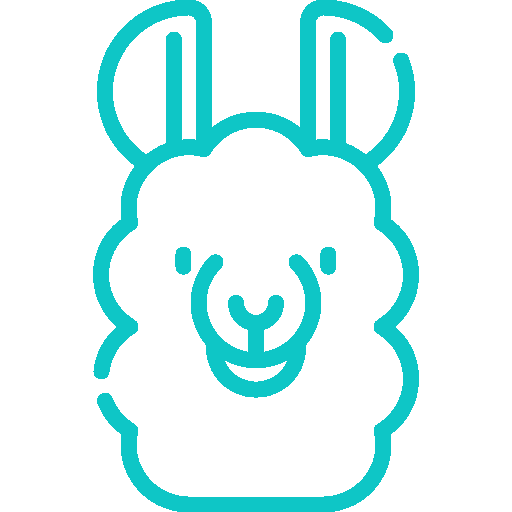
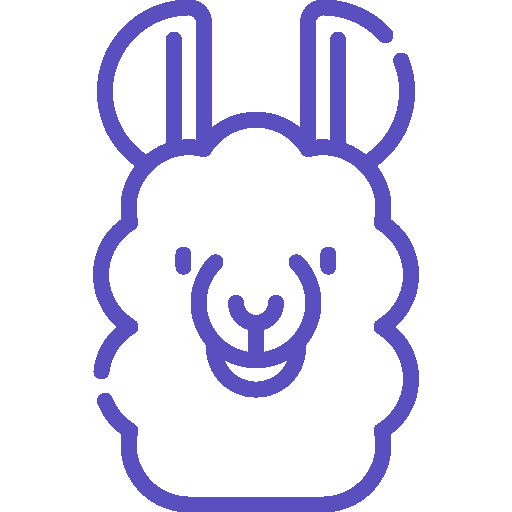
colorized

Changed region(s): [[0.1562, 0.0, 0.8438, 1.0], [0.3438, 0.4688, 0.6562, 0.7812]]

diff --git a/styles/style.css b/styles/style.css
@@ -60,8 +60,10 @@ Default CSS
 =================================================*/
 :root {
   --fontFamily: "Work Sans", sans-serif;
-  --mainColor: #0ec6c6;
-  --mainColor2: #30eded;
+  --mainColor: #594FBF;
+  --mainColorBorder: #594FBF;
+  --mainColorShadow: #ABA5EA;
+  --mainColor2: #D0CCF6;
   --optionalColor: #666666;
   --whiteColor: #ffffff;
   --blackColor: #221638;
@@ -236,8 +238,8 @@ p:last-child {
   transition: var(--transition);
   border: none;
   text-align: center;
-  border: 1px solid #96e3e3;
-  box-shadow: 4px 4px #b2eaea;
+  border: 1px solid var(--mainColorBorder);
+  box-shadow: 4px 4px var(--mainColorShadow);
   background-color: var(--whiteColor);
   color: var(--blackColor);
   font-size: var(--fontSize);
@@ -2224,7 +2226,7 @@ Main Banner Area CSS
 .main-banner-content form {
   margin-top: 40px;
   background-color: var(--whiteColor);
-  box-shadow: 5px 5px #30eded;
+  box-shadow: 5px 5px #847BDD;
   border-radius: 100px;
   padding-left: 20px;
   padding-right: 12px;
@@ -2232,7 +2234,7 @@ Main Banner Area CSS
 .main-banner-content form .form-group {
   margin: 0;
   position: relative;
-  border-right: 1px solid #30eded;
+  border-right: 1px solid #847BDD;
   margin-left: 12px;
 }
 .main-banner-content form .form-group label {
@@ -2487,7 +2489,7 @@ Main Banner Area CSS
 .banner-content form {
   margin-top: 40px;
   background-color: var(--whiteColor);
-  box-shadow: 5px 5px #30eded;
+  box-shadow: 5px 5px #847BDD;
   border-radius: 5px;
   padding-left: 20px;
   padding-right: 12px;
@@ -2495,7 +2497,7 @@ Main Banner Area CSS
 .banner-content form .form-group {
   margin: 0;
   position: relative;
-  border-right: 1px solid #30eded;
+  border-right: 1px solid #847BDD;
   margin-left: 12px;
 }
 .banner-content form .form-group label {
@@ -2719,7 +2721,7 @@ Main Banner Area CSS
 .banner-wrapper-content form {
   margin-top: 40px;
   background-color: var(--whiteColor);
-  box-shadow: 5px 5px #30eded;
+  box-shadow: 5px 5px #847BDD;
   border-radius: 5px;
   padding-left: 20px;
   padding-right: 12px;
@@ -2727,7 +2729,7 @@ Main Banner Area CSS
 .banner-wrapper-content form .form-group {
   margin: 0;
   position: relative;
-  border-right: 1px solid #30eded;
+  border-right: 1px solid #847BDD;
   margin-left: 12px;
 }
 .banner-wrapper-content form .form-group label {
@@ -3018,7 +3020,7 @@ Main Banner Area CSS
 }
 .map-home-area form {
   background-color: var(--whiteColor);
-  box-shadow: 5px 5px #30eded;
+  box-shadow: 5px 5px #847BDD;
   border-radius: 5px;
   position: absolute;
   left: 0;
@@ -3034,7 +3036,7 @@ Main Banner Area CSS
 .map-home-area form .form-group {
   margin: 0;
   position: relative;
-  border-right: 1px solid #30eded;
+  border-right: 1px solid #847BDD;
   margin-left: 12px;
 }
 .map-home-area form .form-group label {
@@ -3346,10 +3348,10 @@ Listings Area CSS
 
 .single-listings-box {
   position: relative;
-  box-shadow: 5px 5px #b2eaea;
+  box-shadow: 5px 5px var(--mainColorShadow);
   transition: var(--transition);
   background-color: var(--whiteColor);
-  border: 1px solid #96e3e3;
+  border: 1px solid var(--mainColorBorder);
   border-radius: 5px;
   margin-bottom: 35px;
   margin-right: 5px;
@@ -6039,8 +6041,8 @@ Category Area CSS
 =================================================*/
 .single-category-box {
   margin-bottom: 35px;
-  box-shadow: 5px 5px #b2eaea;
-  border: 1px solid #96e3e3;
+  box-shadow: 5px 5px var(--mainColorShadow);
+  border: 1px solid var(--mainColorBorder);
   border-radius: 5px;
   position: relative;
   transition: var(--transition);
@@ -6280,7 +6282,7 @@ Destinations Area CSS
   height: 3px;
 }
 .single-destinations-box.color-box-shadow {
-  box-shadow: 5px 5px #b2eaea;
+  box-shadow: 5px 5px var(--mainColorShadow);
   transition: var(--transition);
 }
 .single-destinations-box.color-box-shadow:hover {
@@ -6615,8 +6617,8 @@ Events Area CSS
 
 .single-events-item {
   margin-bottom: 35px;
-  box-shadow: 5px 5px #b2eaea;
-  border: 1px solid #96e3e3;
+  box-shadow: 5px 5px var(--mainColorShadow);
+  border: 1px solid var(--mainColorBorder);
   border-radius: 5px;
   transition: var(--transition);
   background-color: var(--whiteColor);
@@ -6659,8 +6661,8 @@ Events Area CSS
   right: -15px;
   top: 50%;
   transform: translateY(-50%);
-  box-shadow: 3px 3px #b2eaea;
-  border: 1px solid #96e3e3;
+  box-shadow: 3px 3px var(--mainColorShadow);
+  border: 1px solid var(--mainColorBorder);
   display: inline-block;
   width: 44px;
   height: 44px;
@@ -6690,8 +6692,8 @@ Events Area CSS
 
 .single-events-box {
   margin-bottom: 35px;
-  box-shadow: 5px 5px #b2eaea;
-  border: 1px solid #96e3e3;
+  box-shadow: 5px 5px var(--mainColorShadow);
+  border: 1px solid var(--mainColorBorder);
   border-radius: 5px;
   transition: var(--transition);
   background-color: var(--whiteColor);
@@ -6699,7 +6701,7 @@ Events Area CSS
 .single-events-box .image {
   height: 100%;
   border-radius: 5px;
-  border-right: 1px solid #96e3e3;
+  border-right: 1px solid var(--mainColorBorder);
   position: relative;
   background-position: center center;
   background-size: cover;
@@ -6779,7 +6781,7 @@ Events Area CSS
 .events-box {
   margin-bottom: 35px;
   border-radius: 5px;
-  box-shadow: 5px 5px #b2eaea;
+  box-shadow: 5px 5px var(--mainColorShadow);
   overflow: hidden;
   transition: var(--transition);
   position: relative;
@@ -7091,8 +7093,8 @@ Blog Area CSS
 
 .single-blog-post {
   margin-bottom: 35px;
-  box-shadow: 5px 5px #b2eaea;
-  border: 1px solid #96e3e3;
+  box-shadow: 5px 5px var(--mainColorShadow);
+  border: 1px solid var(--mainColorBorder);
   border-radius: 5px;
   transition: var(--transition);
   background-color: var(--whiteColor);
@@ -7166,8 +7168,8 @@ Blog Area CSS
   position: absolute;
   right: 20px;
   top: -22px;
-  box-shadow: 3px 3px #b2eaea;
-  border: 1px solid #96e3e3;
+  box-shadow: 3px 3px var(--mainColorShadow);
+  border: 1px solid var(--mainColorBorder);
   display: inline-block;
   width: 44px;
   height: 44px;
@@ -8054,7 +8056,7 @@ Manage Your Business Area CSS
 }
 
 .manage-your-business-image {
-  box-shadow: 7px 7px #0ec6c6;
+  box-shadow: 7px 7px var(--mainColor);
   margin-right: 80px;
 }
 
@@ -8068,8 +8070,8 @@ Manage Your Business Area CSS
 }
 .manage-your-business-content .default-btn {
   margin-top: 10px;
-  box-shadow: 4px 4px #0ec6c6;
-  border-color: #0ec6c6;
+  box-shadow: 4px 4px var(--mainColor);
+  border-color: var(--mainColor);
 }
 .manage-your-business-content .default-btn:hover {
   border-color: var(--blackColor);
@@ -8479,7 +8481,7 @@ Page Title Area CSS
 }
 .page-title-bg form {
   background-color: var(--whiteColor);
-  box-shadow: 5px 5px #30eded;
+  box-shadow: 5px 5px #847BDD;
   border-radius: 5px;
   max-width: 900px;
   z-index: 2;
@@ -8492,7 +8494,7 @@ Page Title Area CSS
 .page-title-bg form .form-group {
   margin: 0;
   position: relative;
-  border-right: 1px solid #30eded;
+  border-right: 1px solid #847BDD;
   margin-left: 12px;
 }
 .page-title-bg form .form-group label {
@@ -16137,7 +16139,7 @@ Dashboard CSS
 }
 
 .shorting-menu .react-tabs__tab-list .react-tabs__tab--selected button {
-  background: #0ec6c6;
+  background: var(--mainColor);
   color: #fff;
 }
 
@@ -16315,7 +16317,7 @@ Dashboard CSS
   border: none;
   width: 100%;
   padding: 13px;
-  color: #0ec6c6;
+  color: var(--mainColor);
   font-weight: 600;
 }
 
@@ -16324,7 +16326,7 @@ Dashboard CSS
   border: none;
   width: 100%;
   padding: 13px;
-  color: #0ec6c6;
+  color: var(--mainColor);
   font-weight: 600;
 }
 
@@ -16684,7 +16686,7 @@ Preloader Area CSS
   }
 }
 .Typist span {
-  color: #0ec6c6;
+  color: var(--mainColor);
 }
 
 .lang-dropdown {
@@ -16976,7 +16978,7 @@ button.button-danger:hover {
 .tips-popup {
   max-height: 200px;
   overflow: auto;
-  border-top: 1px solid #30eded;
+  border-top: 1px solid #847BDD;
 }
 
 .navbar-search-box .tips-popup {
@@ -17300,8 +17302,8 @@ button.button-danger:hover {
 }
 
 .dropdown-filter .filter-trigger {
-  border: 1px solid #96e3e3;
-  color: #96e3e3;
+  border: 1px solid var(--mainColorBorder);
+  color: var(--mainColorBorder);
   transition: all 0.2s ease-in-out;
 }
 
@@ -17313,7 +17315,7 @@ button.button-danger:hover {
 .dropdown-filter .filter-trigger svg {
   width: 16px;
   height: 16px;
-  fill: #96e3e3;
+  fill: var(--mainColorBorder);
   transition: all 0.2s ease-in-out;
 }
 
@@ -18392,4 +18394,19 @@ input[type="number"] {
   opacity: 0.5;
   flex-shrink: 0;
   margin-right: 0.75rem;
+}
+
+.all-listings-list .swiper-wrapper,
+.listings-area .swiper-wrapper{
+  grid-column-gap: 25px!important;
+}
+
+.all-listings-list .swiper-wrapper .swiper-slide,
+.listings-area .swiper-wrapper .swiper-slide{
+  margin-right: 0!important;
+}
+
+.all-listings-list .single-listings-box,
+.listings-area .single-listings-box{
+  width: calc(100% - 5px);
 }

diff --git a/components/Common/ListingArea.js b/components/Common/ListingArea.js
@@ -37,14 +37,14 @@ const ListingArea = ({ listings }) => {
             modules={[Pagination]}
             className="listings-slides"
           >
-            {listings.map((listing) => (
-              <SwiperSlide
-                key={listing.id}
-                style={{ display: "flex", height: "auto" }}
-              >
-                <ListingItem listing={listing} />
-              </SwiperSlide>
-            ))}
+            {listings.map((listing, index) => {
+              const styles = { display: "flex", height: "auto" };
+              return (
+                <SwiperSlide key={listing.id} style={styles}>
+                  <ListingItem listing={listing} />
+                </SwiperSlide>
+              );
+            })}
           </Swiper>
         </div>
 

diff --git a/components/Listings/ListingItem.js b/components/Listings/ListingItem.js
@@ -9,7 +9,7 @@ const ListingItem = ({ listing, hovered = false }) => {
 
   return (
     <div
-      className={`single-listings-box w-100 ${hovered ? "hovered" : ""}`}
+      className={`single-listings-box ${hovered ? "hovered" : ""}`}
       style={{
         display: "flex",
         flexDirection: "column",
